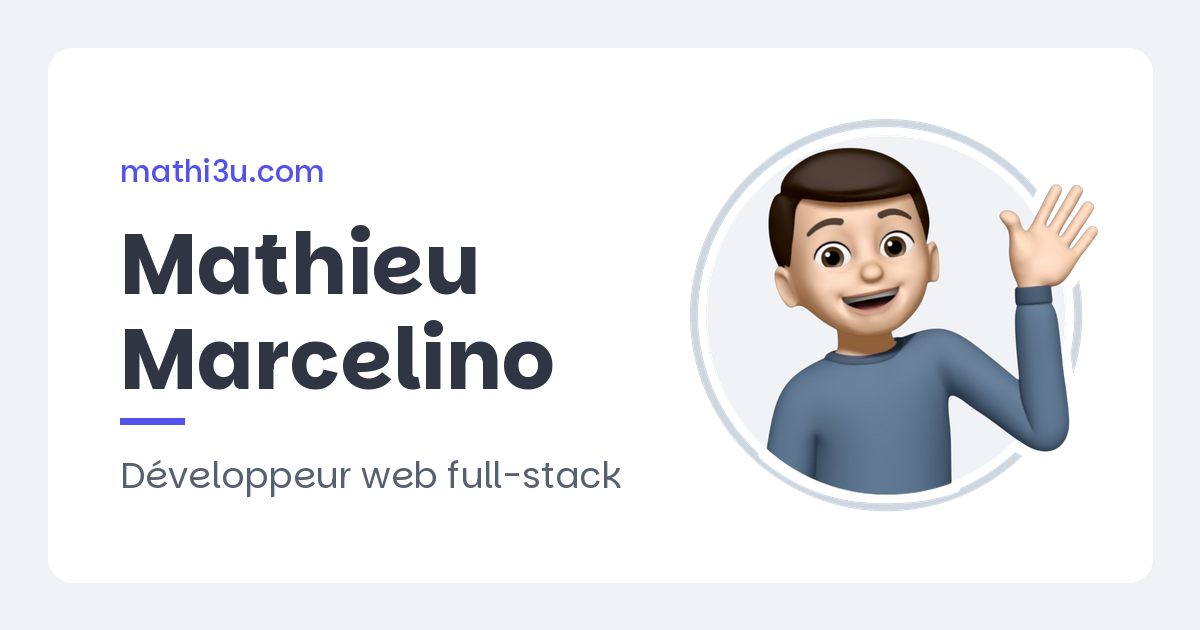
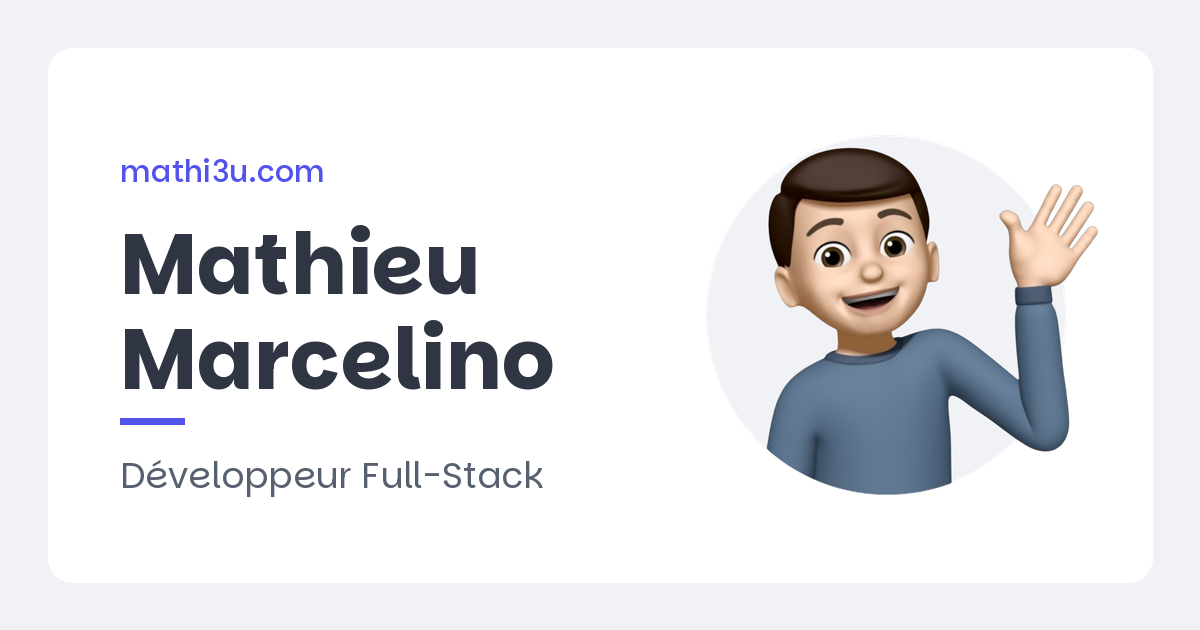
fix(seo): image de partage sans anneau, sous-titre « Développeur Full-Stack »
- retrait du contour autour de l'avatar (seul le disque de fond reste)
- sous-titre de l'image et textes alternatifs og/twitter alignés sur
  « Développeur Full-Stack »

diff --git a/public/index.html b/public/index.html
@@ -20,7 +20,7 @@
     <meta property="og:image" content="https://mathi3u.com/og-image.png" />
     <meta property="og:image:width" content="1200" />
     <meta property="og:image:height" content="630" />
-    <meta property="og:image:alt" content="Mathieu Marcelino, développeur web full-stack" />
+    <meta property="og:image:alt" content="Mathieu Marcelino, Développeur Full-Stack" />
     <meta property="og:locale" content="fr_FR" />
     <meta property="og:locale:alternate" content="en_US" />
 
@@ -29,7 +29,7 @@
     <meta name="twitter:title" content="Mathieu Marcelino | Portfolio" />
     <meta name="twitter:description" content="Portfolio de Mathieu Marcelino, développeur web full-stack : parcours, expériences professionnelles, formations et projets personnels." />
     <meta name="twitter:image" content="https://mathi3u.com/og-image.png" />
-    <meta name="twitter:image:alt" content="Mathieu Marcelino, développeur web full-stack" />
+    <meta name="twitter:image:alt" content="Mathieu Marcelino, Développeur Full-Stack" />
     <link rel="apple-touch-icon" href="%PUBLIC_URL%/apple-touch-icon.png" />
     <!--
       manifest.json provides metadata used when your web app is installed on a
